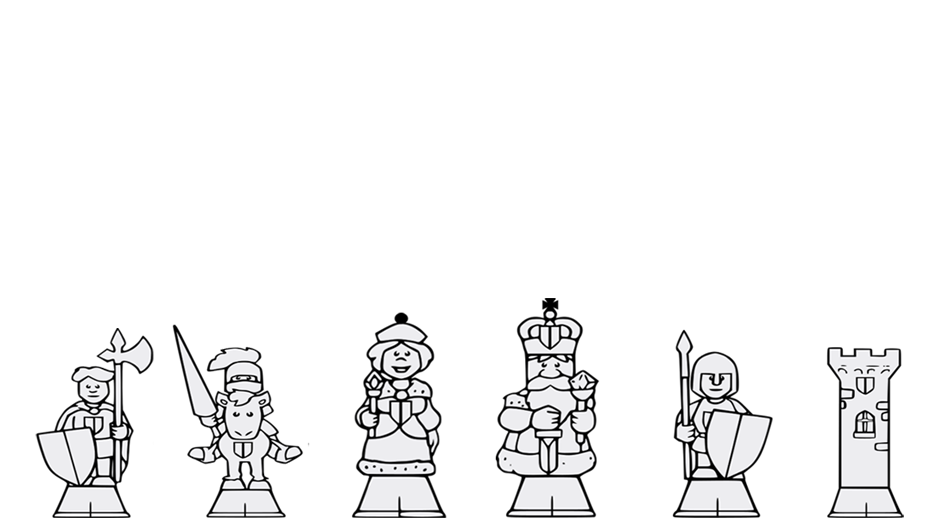
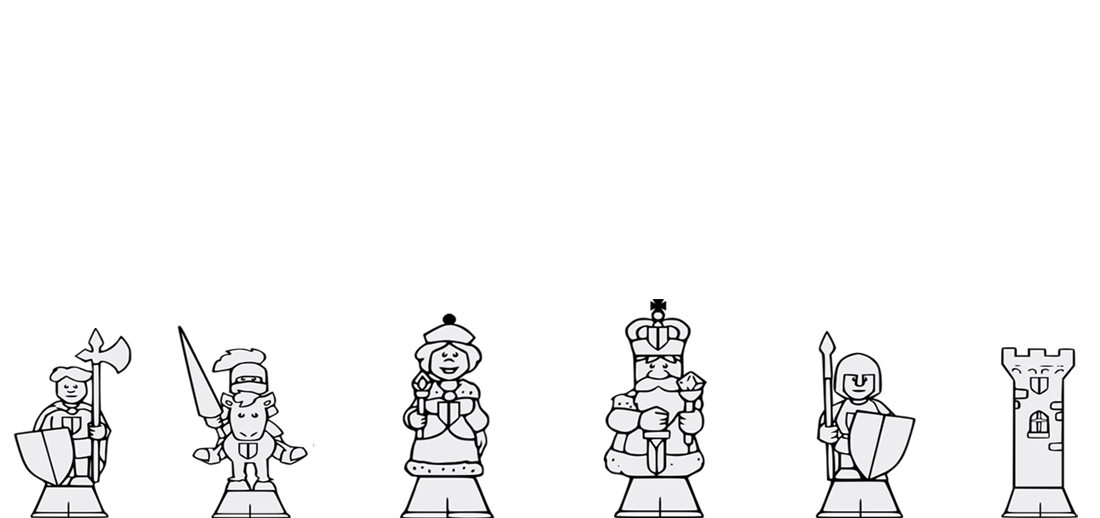
Clean up

diff --git a/core/src/com/grnn/chess/states/LoginState.java b/core/src/com/grnn/chess/states/LoginState.java
@@ -51,14 +51,14 @@ public class LoginState extends State {
         sb.begin();
         CountKing ++;
         sb.draw(background, 0,0);
-        sb.draw(pieces, 70, 0);
+        sb.draw(loginBtn, Xplay, Yplay);
 
         if(CountKing > 450){
             CountKing --;
         }
 
         sb.draw(kingBlack, CountKing, Yplay-346);
-        sb.draw(loginBtn, Xplay, Yplay);
+        sb.draw(pieces, 0, 0);
         sb.end();
     }
 

diff --git a/core/src/com/grnn/chess/states/SelectAIState.java b/core/src/com/grnn/chess/states/SelectAIState.java
@@ -82,7 +82,7 @@ public class SelectAIState extends State {
     public void render(SpriteBatch sb) {
         sb.begin();
         sb.draw(background, 0,0);
-        sb.draw(pieces, 70, 0);
+        sb.draw(pieces, 0, 0);
         sb.draw(playBtn, xPlay, yPlay);
         sb.draw(playBtn2, xPlay, yPlay - 70);
         sb.draw(playBtn3, xPlay, yPlay - 140);

diff --git a/core/src/com/grnn/chess/states/MenuState.java b/core/src/com/grnn/chess/states/MenuState.java
@@ -61,7 +61,7 @@ public class MenuState extends State {
             Count = 0;
         }
 
-        sb.draw(pieces, 70, 0);
+        sb.draw(pieces, 0, 0);
         sb.draw(playBtn, Xplay, Yplay);
         sb.end();
     }
